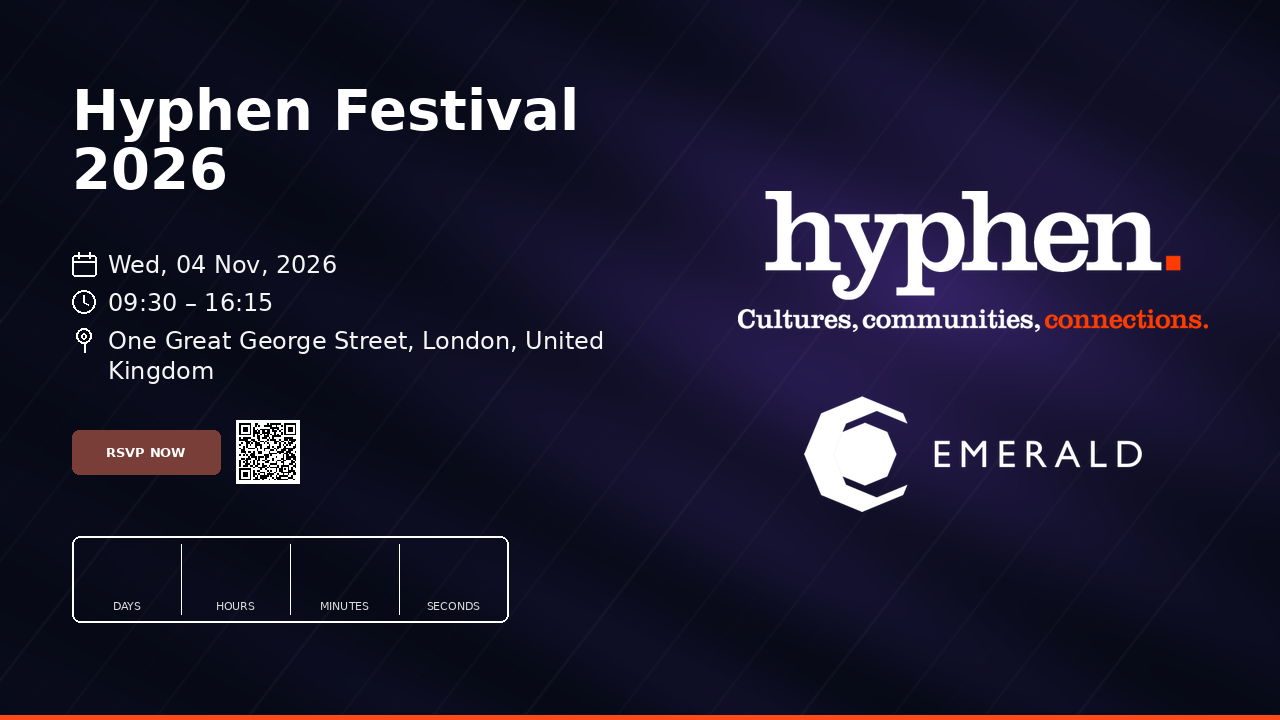
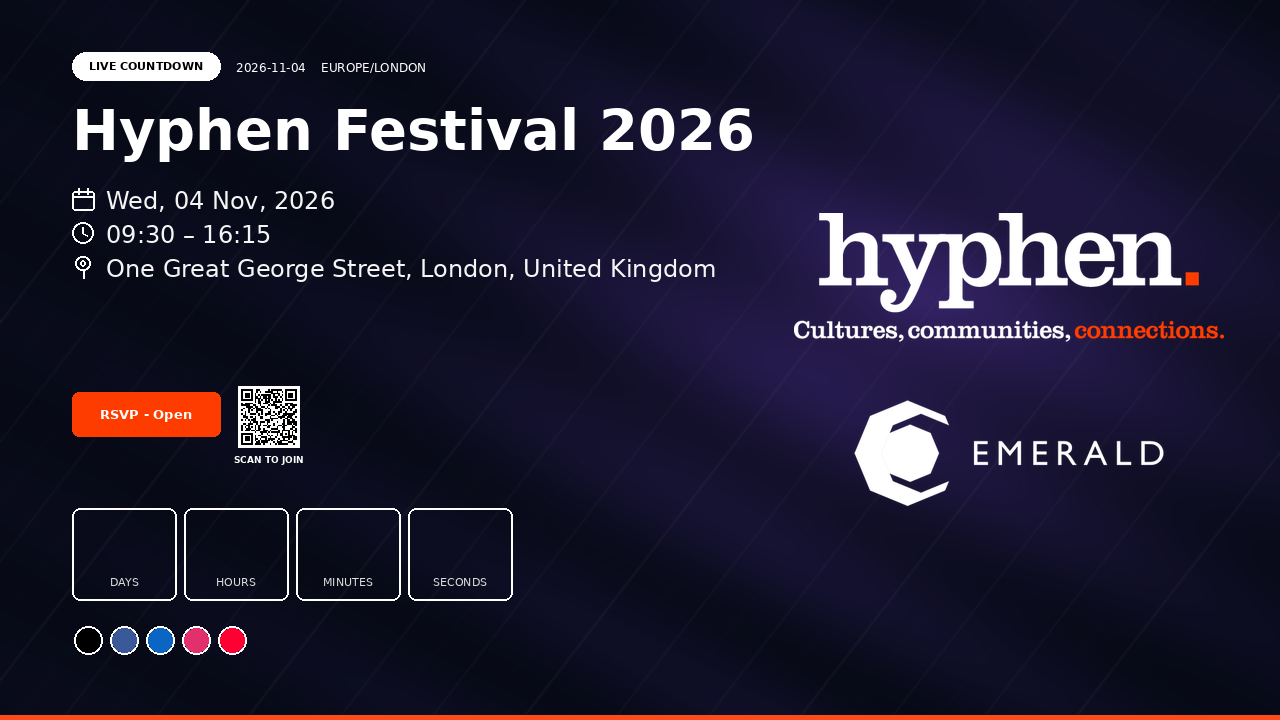
Match the encoded slate to the desk layout

diff --git a/scripts/generate-slate.py b/scripts/generate-slate.py
@@ -19,8 +19,8 @@ BOLD = Path("/usr/share/fonts/truetype/dejavu/DejaVuSans-Bold.ttf")
 REGULAR = Path("/usr/share/fonts/truetype/dejavu/DejaVuSans.ttf")
 RSVP_URL = "https://events.hyphenonline.com/HyphenFestival2026#/buyTickets"
 
-# Compact countdown box — keep in sync with scripts/stream-countdown.sh
-COUNT_X, COUNT_Y, COUNT_W, COUNT_H = 72, 536, 436, 86
+# Four separate boxes — keep the centres in sync with scripts/stream-countdown.sh
+COUNT_X, COUNT_Y, BOX_W, BOX_H, BOX_GAP = 72, 508, 104, 92, 8
 COUNT_FONT = 32
 
 
@@ -138,13 +138,19 @@ def make_slate(bg: Image.Image, logo: Image.Image, qr: Image.Image) -> Image.Ima
     unit_font = ImageFont.truetype(str(REGULAR), 11)
 
     pad_x = 72
-    y = 78
-    draw.text((pad_x, y), "Hyphen Festival", font=h1, fill=(255, 255, 255, 255))
-    y += int(56 * 1.14285714) - 4
-    draw.text((pad_x, y), "2026", font=h1, fill=(255, 255, 255, 255))
+    y = 52
+    badge = ImageFont.truetype(str(BOLD), 11)
+    badge_box = (pad_x, y, pad_x + 148, y + 28)
+    rounded_rect(draw, badge_box, 14, fill=(255, 255, 255, 255))
+    draw.text((pad_x + 74, y + 14), "LIVE COUNTDOWN", font=badge, fill=(0, 0, 0, 255), anchor="mm")
+    meta = ImageFont.truetype(str(REGULAR), 12)
+    draw.text((pad_x + 164, y + 8), "2026-11-04    EUROPE/LONDON", font=meta, fill=(255, 255, 255, 110))
 
-    y = 250
-    icon = 24
+    y = 98
+    draw.text((pad_x, y), "Hyphen Festival 2026", font=h1, fill=(255, 255, 255, 255))
+
+    y = 186
+    icon = 22
     rows = [
         (draw_icon_calendar, "Wed, 04 Nov, 2026"),
         (draw_icon_clock, "09:30 – 16:15"),
@@ -152,49 +158,41 @@ def make_slate(bg: Image.Image, logo: Image.Image, qr: Image.Image) -> Image.Ima
     ]
     for icon_fn, label in rows:
         icon_fn(draw, pad_x, y + 2, icon, (255, 255, 255, 255))
-        lines = wrap_text(draw, label, h4, 540)
+        lines = wrap_text(draw, label, h4, 620)
         ty = y
         for line in lines:
-            draw.text((pad_x + 36, ty), line, font=h4, fill=(245, 245, 245, 255))
-            ty += 30
-        y = ty + 8
+            draw.text((pad_x + 34, ty), line, font=h4, fill=(245, 245, 245, 255))
+            ty += 28
+        y = ty + 6
 
-    btn = (pad_x, 430, pad_x + 148, 430 + 44)
+    btn = (pad_x, 392, pad_x + 148, 436)
     rounded_rect(draw, btn, 7, fill=(255, 60, 0, 255))
-    draw.text((pad_x + 74, 452), "RSVP - Open", font=rsvp_font, fill=(255, 255, 255, 255), anchor="mm")
+    draw.text((pad_x + 74, 414), "RSVP - Open", font=rsvp_font, fill=(255, 255, 255, 255), anchor="mm")
 
-    qr_size = 64
-    qr_x, qr_y = pad_x + 164, 420
-    qr_resized = qr.resize((qr_size, qr_size), Image.Resampling.NEAREST)
-    img.paste(qr_resized, (qr_x, qr_y))
+    qr_size = 62
+    qr_x, qr_y = pad_x + 166, 386
+    img.paste(qr.resize((qr_size, qr_size), Image.Resampling.NEAREST), (qr_x, qr_y))
+    scan = ImageFont.truetype(str(BOLD), 9)
+    draw.text((qr_x + qr_size / 2, qr_y + qr_size + 12), "SCAN TO JOIN", font=scan, fill=(255, 255, 255, 230), anchor="mm")
 
-    rounded_rect(
-        draw,
-        (COUNT_X, COUNT_Y, COUNT_X + COUNT_W, COUNT_Y + COUNT_H),
-        8,
-        outline=(255, 255, 255, 210),
-        width=2,
-    )
-    cell_w = COUNT_W / 4
     labels = ("DAYS", "HOURS", "MINUTES", "SECONDS")
     for i, label in enumerate(labels):
-        x = COUNT_X + i * cell_w
-        if i:
-            draw.line((x, COUNT_Y + 8, x, COUNT_Y + COUNT_H - 8), fill=(255, 255, 255, 200), width=1)
-        draw.text(
-            (x + cell_w / 2, COUNT_Y + COUNT_H - 16),
-            label,
-            font=unit_font,
-            fill=(220, 220, 220, 255),
-            anchor="mm",
-        )
+        x = COUNT_X + i * (BOX_W + BOX_GAP)
+        rounded_rect(draw, (x, COUNT_Y, x + BOX_W, COUNT_Y + BOX_H), 8, outline=(255, 255, 255, 230), width=2)
+        draw.text((x + BOX_W / 2, COUNT_Y + BOX_H - 18), label, font=unit_font, fill=(220, 220, 220, 255), anchor="mm")
 
-    logo_w = 470
+    for i, colour in enumerate(((0, 0, 0), (59, 89, 152), (10, 102, 194), (225, 48, 108), (255, 0, 51))):
+        cx = pad_x + 16 + i * 36
+        cy = 640
+        draw.ellipse((cx - 14, cy - 14, cx + 14, cy + 14), outline=(255, 255, 255, 255), width=2)
+        draw.ellipse((cx - 12, cy - 12, cx + 12, cy + 12), fill=colour + (255,))
+
+    logo_w = 430
     ratio = logo_w / logo.size[0]
     logo_h = int(logo.size[1] * ratio)
     logo_fit = logo.resize((logo_w, logo_h), Image.Resampling.LANCZOS)
-    lx = W - 72 - logo_w
-    ly = (H - logo_h) // 2 - 8
+    lx = W - 56 - logo_w
+    ly = (H - logo_h) // 2
     img.paste(logo_fit, (lx, ly), logo_fit)
     return img
 
@@ -230,8 +228,7 @@ def main() -> None:
     slate = make_slate(bg, logo, qr)
     save_rgb(slate, ASSETS / "countdown-slate.png")
 
-    cell_w = COUNT_W / 4
-    centers = [COUNT_X + cell_w * (i + 0.5) for i in range(4)]
+    centers = [COUNT_X + i * (BOX_W + BOX_GAP) + BOX_W / 2 for i in range(4)]
     print(
         "countdown numbers: "
         + " ".join(f"x={c:.1f}" for c in centers)
